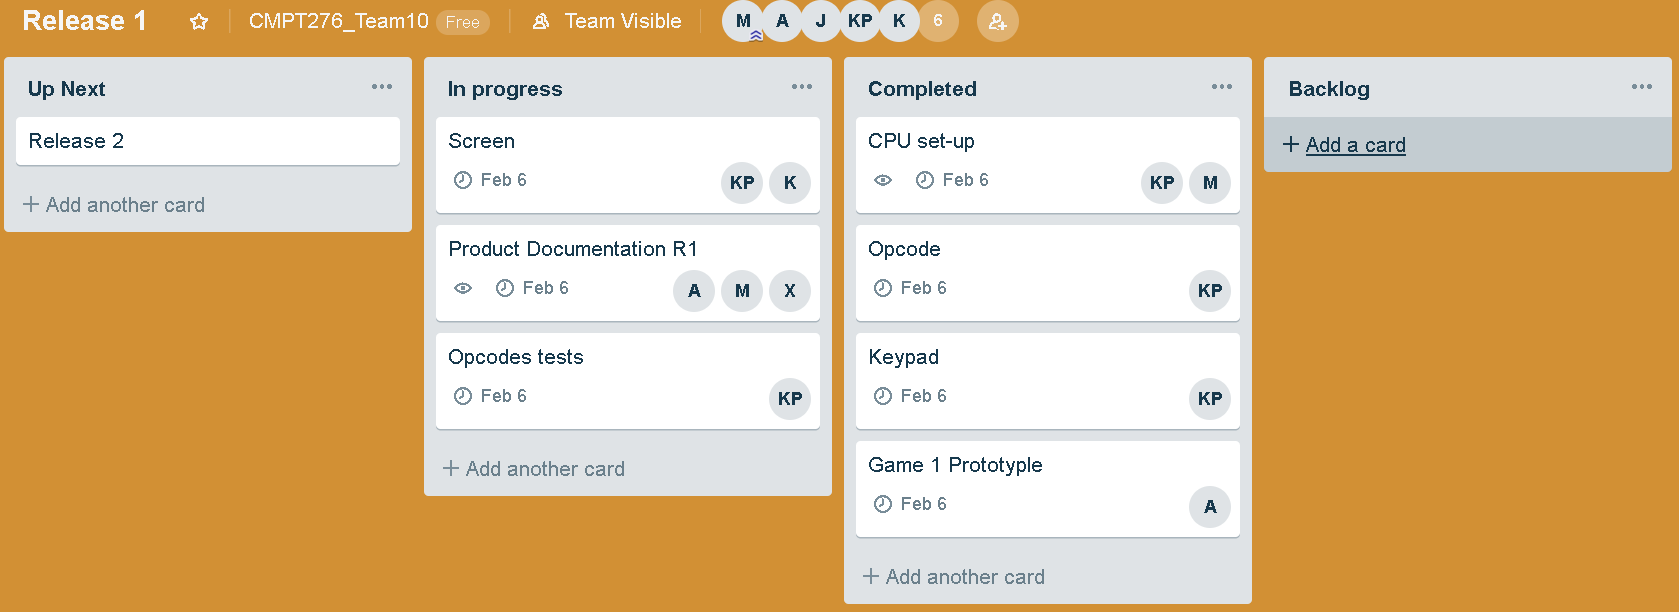
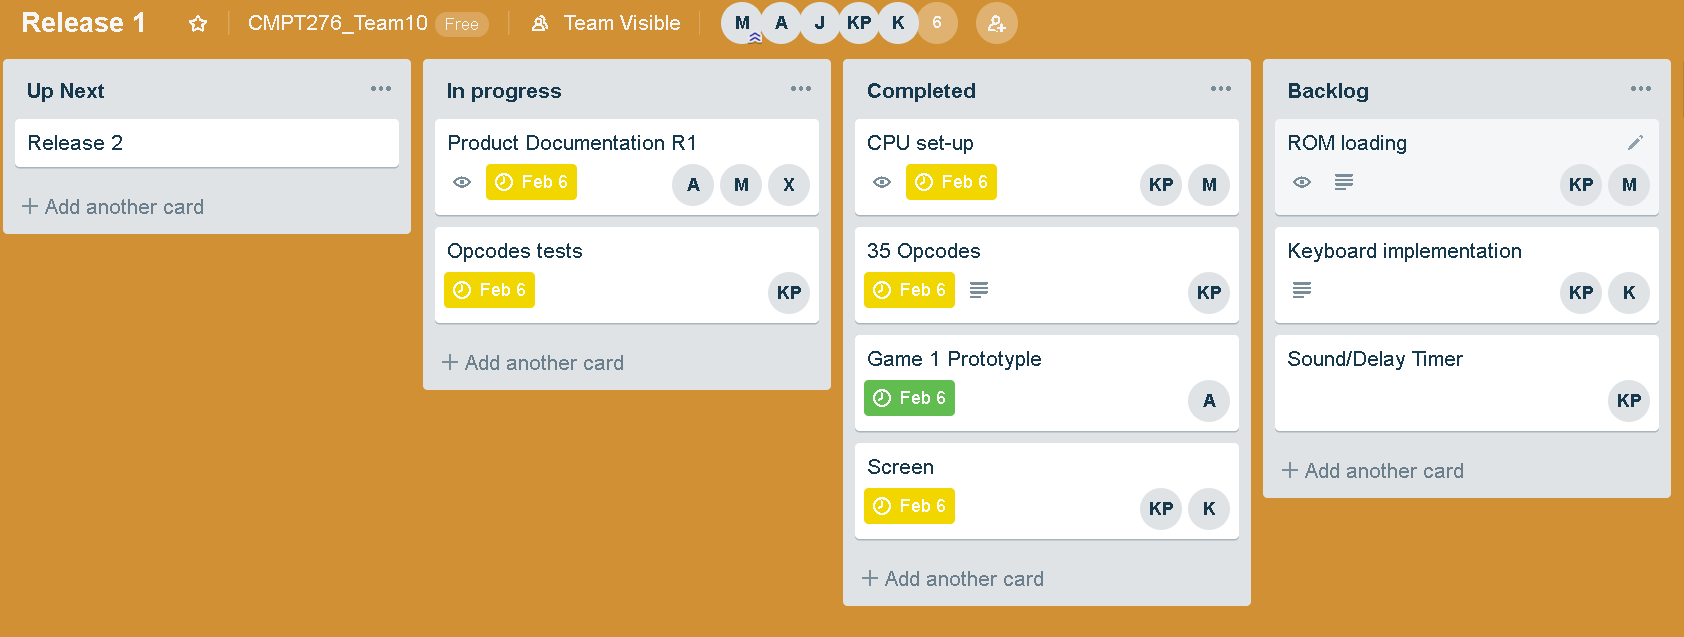
updated doc

diff --git a/Product_Document.md b/Product_Document.md
@@ -19,7 +19,7 @@ The team will meet weekly to create user stories. The stories are ranked by impo
 
 ### Members' roles
 
-**UPDATED January 20, 2018**: Add Xinyue Ma as a front-end programmer. 
+**UPDATED January 20, 2019**: Add Xinyue Ma as a front-end programmer. 
 
 The team has 6 Computer Science undergrads with the following roles:
 
@@ -45,7 +45,7 @@ NO-SHOW RULE: For pre-scheduled meetings (either in person or voice call), if a 
 
 ## Use Cases For Major Features
 
-**UPDATED February 6, 2018**: 
+**UPDATED February 6, 2019**: 
 - Release 1: 
     - Added more detailed use case for game 1 prototype.
     - Implemented all 35 opcodes instead of splitting them between release 1 and 2.
@@ -68,10 +68,10 @@ NO-SHOW RULE: For pre-scheduled meetings (either in person or voice call), if a 
 
 **Release 1**
 
-- CPU set-up: at the beginning or when the emulator resets, the memory, stack, registers will have some default values. 
-- 35 Opcodes: correctly implement 35 opcodes based on the specifications in [Cowgod's chip8 reference](http://devernay.free.fr/hacks/chip8/C8TECH10.HTM), according to Cowgod, opcode `0nnn` is only used on old computers and is ignored by modern interpreters so we don't implement it.
-- Decode opcode: **KARAN TODO**
-- Screen: **KARAN TODO** 
+- CPU set-up: At the beginning or when the emulator resets, the memory, stack, registers will have some default values. 
+- 35 Opcodes: Correctly implement 35 opcodes based on the specifications in [Cowgod's chip8 reference](http://devernay.free.fr/hacks/chip8/C8TECH10.HTM), according to Cowgod, opcode `0nnn` is only used on old computers and is ignored by modern interpreters so we don't implement it.
+- Decode opcode: This feature is a part of the visualizer's instruction display deliverable and has been developed ahead of time. For now, users can simply enter any opcode (say 00E0) and click `Submit` which will print the corresponding instruction onto the page.
+- Screen: The screen is 640x320 pixels and each pixel is rendered by a factor of 10. Only the welcome screen is shown for programs that require user interactions via the keyboard. 
 - Prototype of game 1: User playing against a computer AI. Two spaceships shooting at each other with a destroyable barrier in the middle. This game will have levels and points, and can be played through multiple rounds against the AI. The game is based on the famous arcade game ‘Outlaw’, with tweaks made to it, such as levels, and points. 
     - Actors:
         - User
@@ -97,18 +97,18 @@ NO-SHOW RULE: For pre-scheduled meetings (either in person or voice call), if a 
 **Release 2**
 
 - Emulator 
-    - ROM loading: **KARAN TODO** 
+    - ROM loading: In release 1, the ROMs are pre-loaded into the memory. We will allow user to load any valid Chip8 ROM into the memory in release 2. 
     - Keyboard input: The 16-key keyboard used for input will be mapped to the computer keyboard and will also be displayed on the web page according to the following mapping:
 
     1	2	3	C  ------>		1	2	3	4 <br>
     4	5	6	D  ------>	    Q	W	E	R <br>
     7	8	9	E  ------>		A	S	D	F <br>
     A	0	B	F  ------>		Z	X	C	V <br>
-    - Sound/Delay timer: **KARAN TODO** 
+    - Sound/Delay timer: The `CHIP8` object already contains `delayTimer` and `soundTimer`. We will add sound (played when the sound timer reaches 0) in this release and calibrate the delay timer with our emulator's frame rate.
 
-- Visualizer: While a chip 8 program is executing, the program will show all current values being stored in memory and in each register. The current running instruction is highlighted. User can also stop the program, step forward or step backward one instruction at a time, and continue running the program. 
+- Visualizer: While a Chip 8 program is executing, the program will show all current values being stored in memory and in each register. The current running instruction is highlighted. User can also stop the program, step forward or step backward one instruction at a time, and continue running the program. 
 - Game 1 Complete: Polish the interface and perform rigorous testing to ensure no unexpected bug exist. 
-- Game 2 Prototype: `Helibird` 
+- Game 2 Prototype: `Helibird` : A game inspired by the viral game *Flappy Bird*. We are planning to replace the bird with a tiny helicopter which behaves like a bird, hence the name *Helibird*!
 
 ## Risk analysis
 
@@ -139,11 +139,11 @@ NO-SHOW RULE: For pre-scheduled meetings (either in person or voice call), if a 
 
 The work breakdown and project schedule below are tentative and will be update after each iteration. We used the rule of thumb introduced in class: (informal estimate of time) * 3 to calculate the Estimated Efforts (hours). 
 
-**UPDATED**: **January 25, 2018**: Started using Google Spreadsheet for Work Breakdown which allows easier replanning for future releases. 
+**UPDATED**: **January 25, 2019**: Started using Google Spreadsheet for Work Breakdown which allows easier replanning for future releases. 
 
 [Link to Work Breakdown Spreadsheet](https://docs.google.com/spreadsheets/d/1HqADerMmskoAKjknKuDWZFQrG6OZgpwF0acj79XQYGA/edit?usp=sharing) 
 
-**UPDATED**: **February 6, 2018**: Bellow is a snapshot of out current Work Breakdown Spreadsheet, taken on February 6, 2018.  
+**UPDATED**: **February 6, 2019**: Bellow is a snapshot of out current Work Breakdown Spreadsheet, taken on February 6, 2018.  
 
 ![WBS example](product_document_imgs/WBS.PNG)
 
@@ -153,7 +153,7 @@ As we implementing the emulator, we also adding new deliverables and modify exis
 
 ## Project schedule
 
-The due dates of major deliverables are shown in the table above. Detailed scheduling, progress tracking and updates are done using Kanban Board via [Trello](https://trello.com). **UPDATED February 5**: An example for release 1 is shown below:
+The due dates of major deliverables are shown in the table above. Detailed scheduling, progress tracking and updates are done using Kanban Board via [Trello](https://trello.com). **UPDATED February 5, 2019**: An example for release 1 is shown below:
 
 ![Trello example](product_document_imgs/trello_example.PNG)
 
